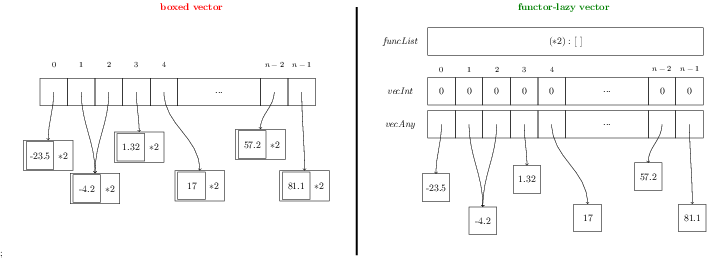
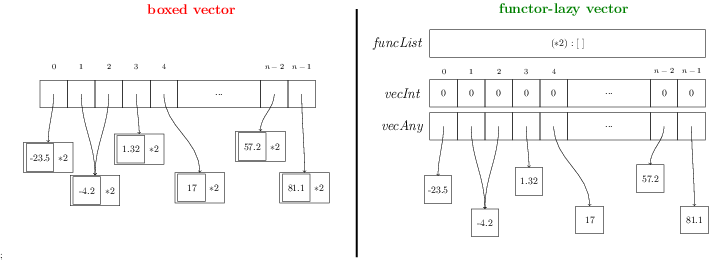
image build script, and nicer alignment of images

diff --git a/img/functorlazyvector2.tex b/img/functorlazyvector2.tex
@@ -10,9 +10,9 @@
 %\node[minimum size=1cm,draw] at (1.4,3) {$(*2)$};
 %\node at (2.1,3) {:};
 %\node at (2.8,3) {$[\ ]$};
-\node[minimum width=2.5cm,align=right] at (-1.5,0) {\emph{vecAny}};
-\node[minimum width=2.5cm,align=right] at (-1.5,1.2) {\emph{vecInt}};
-\node[minimum width=2.5cm,align=right] at (-1.5,3) {\emph{funcList}};
+\node[minimum width=2.5cm,align=right] at (-1.5,0) {\emph{\Large vecAny}};
+\node[minimum width=2.5cm,align=right] at (-1.5,1.2) {\emph{\Large vecInt}};
+\node[minimum width=2.5cm,align=right] at (-1.65,3) {\emph{\Large funcList}};
 
 \node[minimum width=10cm,minimum height=1cm,draw] at (4.5,3) {$(*2) : [\ ]$};
 %\node[minimum width=10cm,minimum height=1cm,draw] at (4.5,3) {$(+7) : (*2) : [\ ]$};

diff --git a/img/functorlazyvector3.tex b/img/functorlazyvector3.tex
@@ -10,9 +10,9 @@
 %\node[minimum size=1cm,draw] at (1.4,3) {$(*2)$};
 %\node at (2.1,3) {:};
 %\node at (2.8,3) {$[\ ]$};
-\node[minimum width=2.5cm,align=right] at (-1.5,0) {\emph{vecAny}};
-\node[minimum width=2.5cm,align=right] at (-1.5,1.2) {\emph{vecInt}};
-\node[minimum width=2.5cm,align=right] at (-1.5,3) {\emph{funcList}};
+\node[minimum width=2.5cm,align=right] at (-1.5,0) {\emph{\Large vecAny}};
+\node[minimum width=2.5cm,align=right] at (-1.5,1.2) {\emph{\Large vecInt}};
+\node[minimum width=2.5cm,align=right] at (-1.65,3) {\emph{\Large funcList}};
 
 \node[minimum width=10cm,minimum height=1cm,draw] at (4.5,3) {$(*2) : [\ ]$};
 %\node[minimum width=10cm,minimum height=1cm,draw] at (4.5,3) {$(+7) : (*2) : [\ ]$};

diff --git a/img/functorlazyvector4.tex b/img/functorlazyvector4.tex
@@ -10,9 +10,9 @@
 %\node[minimum size=1cm,draw] at (1.4,3) {$(*2)$};
 %\node at (2.1,3) {:};
 %\node at (2.8,3) {$[\ ]$};
-\node[minimum width=2.5cm,align=right] at (-1.5,0) {\emph{vecAny}};
-\node[minimum width=2.5cm,align=right] at (-1.5,1.2) {\emph{vecInt}};
-\node[minimum width=2.5cm,align=right] at (-1.5,3) {\emph{funcList}};
+\node[minimum width=2.5cm,align=right] at (-1.5,0) {\emph{\Large vecAny}};
+\node[minimum width=2.5cm,align=right] at (-1.5,1.2) {\emph{\Large vecInt}};
+\node[minimum width=2.5cm,align=right] at (-1.65,3) {\emph{\Large funcList}};
 
 %\node[minimum width=10cm,minimum height=1cm,draw] at (4.5,3) {$(*2) : [\ ]$};
 \node[minimum width=10cm,minimum height=1cm,draw] at (4.5,3) {$(+7) : (*2) : [\ ]$};

diff --git a/img/functorlazyvector5.tex b/img/functorlazyvector5.tex
@@ -10,9 +10,9 @@
 %\node[minimum size=1cm,draw] at (1.4,3) {$(*2)$};
 %\node at (2.1,3) {:};
 %\node at (2.8,3) {$[\ ]$};
-\node[minimum width=2.5cm,align=right] at (-1.5,0) {\emph{vecAny}};
-\node[minimum width=2.5cm,align=right] at (-1.5,1.2) {\emph{vecInt}};
-\node[minimum width=2.5cm,align=right] at (-1.5,3) {\emph{funcList}};
+\node[minimum width=2.5cm,align=right] at (-1.5,0) {\emph{\Large vecAny}};
+\node[minimum width=2.5cm,align=right] at (-1.5,1.2) {\emph{\Large vecInt}};
+\node[minimum width=2.5cm,align=right] at (-1.65,3) {\emph{\Large funcList}};
 
 %\node[minimum width=10cm,minimum height=1cm,draw] at (4.5,3) {$(*2) : [\ ]$};
 \node[minimum width=10cm,minimum height=1cm,draw] at (4.5,3) {$(+7) : (*2) : [\ ]$};

diff --git a/img/functorlazyvector1.tex b/img/functorlazyvector1.tex
@@ -10,9 +10,9 @@
 %\node[minimum size=1cm,draw] at (1.4,3) {$(*2)$};
 %\node at (2.1,3) {:};
 %\node at (2.8,3) {$[\ ]$};
-\node[minimum width=2.5cm,align=right] at (-1.5,0) {\emph{vecAny}};
-\node[minimum width=2.5cm,align=right] at (-1.5,1.2) {\emph{vecInt}};
-\node[minimum width=2.5cm,align=right] at (-1.5,3) {\emph{funcList}};
+\node[minimum width=2.5cm,align=right] at (-1.5,0) {\Large \emph{vecAny}};
+\node[minimum width=2.5cm,align=right] at (-1.5,1.2) {\Large \emph{vecInt}};
+\node[minimum width=2.5cm,align=right] at (-1.65,3) {\Large \emph{funcList}};
 
 \node[minimum width=10cm,minimum height=1cm,draw] at (4.5,3) {$[\ ]$};
 %\node[minimum width=10cm,minimum height=1cm,draw] at (4.5,3) {$(+7) : (*2) : [\ ]$};

diff --git a/img/fig1.tex b/img/fig1.tex
@@ -4,12 +4,12 @@
 
 \definecolor{darkgreen}{RGB}{0,127,0};
 \begin{tikzpicture}
-\node at (-6.5,0) {\includegraphics{boxedvector5}};
-\node at (6.5,0) {\includegraphics{functorlazyvector5}};
+\node at (-6.5,0) {\includegraphics{boxedvector1}};
+\node at (6.5,0) {\includegraphics{functorlazyvector1}};
 \draw[line width=2pt] (0,4.5) to (0,-4.5);
 
-\node at (-6,4.5) {\textcolor{red}{\textbf{boxed vector}}};
-\node at (7.5,4.5) {\textcolor{darkgreen}{\textbf{functor-lazy vector}}};
+\node at (-6,4.5) {\textcolor{red}{\textbf{\Large boxed vector}}};
+\node at (7.5,4.5) {\textcolor{darkgreen}{\textbf{\Large functor-lazy vector}}};
 \end{tikzpicture}
 
 \end{document}

diff --git a/img/fig2.tex b/img/fig2.tex
@@ -8,8 +8,8 @@
 \node at (6.5,0) {\includegraphics{functorlazyvector2}};
 \draw[line width=2pt] (0,4.5) to (0,-4.5);
 
-\node at (-6,4.5) {\textcolor{red}{\textbf{boxed vector}}};
-\node at (7.5,4.5) {\textcolor{darkgreen}{\textbf{functor-lazy vector}}};
+\node at (-6,4.5) {\textcolor{red}{\textbf{\Large boxed vector}}};
+\node at (7.5,4.5) {\textcolor{darkgreen}{\textbf{\Large functor-lazy vector}}};
 \end{tikzpicture}
 
 \end{document}

diff --git a/img/fig3.tex b/img/fig3.tex
@@ -8,8 +8,8 @@
 \node at (6.5,0) {\includegraphics{functorlazyvector3}};
 \draw[line width=2pt] (0,4.5) to (0,-4.5);
 
-\node at (-6,4.5) {\textcolor{red}{\textbf{boxed vector}}};
-\node at (7.5,4.5) {\textcolor{darkgreen}{\textbf{functor-lazy vector}}};
+\node at (-6,4.5) {\textcolor{red}{\textbf{\Large boxed vector}}};
+\node at (7.5,4.5) {\textcolor{darkgreen}{\textbf{\Large functor-lazy vector}}};
 \end{tikzpicture}
 
 \end{document}

diff --git a/img/fig4.tex b/img/fig4.tex
@@ -8,8 +8,8 @@
 \node at (6.5,0) {\includegraphics{functorlazyvector4}};
 \draw[line width=2pt] (0,4.5) to (0,-4.5);
 
-\node at (-6,4.5) {\textcolor{red}{\textbf{boxed vector}}};
-\node at (7.5,4.5) {\textcolor{darkgreen}{\textbf{functor-lazy vector}}};
+\node at (-6,4.5) {\textcolor{red}{\textbf{\Large boxed vector}}};
+\node at (7.5,4.5) {\textcolor{darkgreen}{\textbf{\Large functor-lazy vector}}};
 \end{tikzpicture}
 
 \end{document}

diff --git a/img/fig5.tex b/img/fig5.tex
@@ -8,8 +8,8 @@
 \node at (6.5,0) {\includegraphics{functorlazyvector5}};
 \draw[line width=2pt] (0,4.5) to (0,-4.5);
 
-\node at (-6,4.5) {\textcolor{red}{\textbf{boxed vector}}};
-\node at (7.5,4.5) {\textcolor{darkgreen}{\textbf{functor-lazy vector}}};
+\node at (-6,4.5) {\textcolor{red}{\textbf{\Large boxed vector}}};
+\node at (7.5,4.5) {\textcolor{darkgreen}{\textbf{\Large functor-lazy vector}}};
 \end{tikzpicture}
 
 \end{document}
